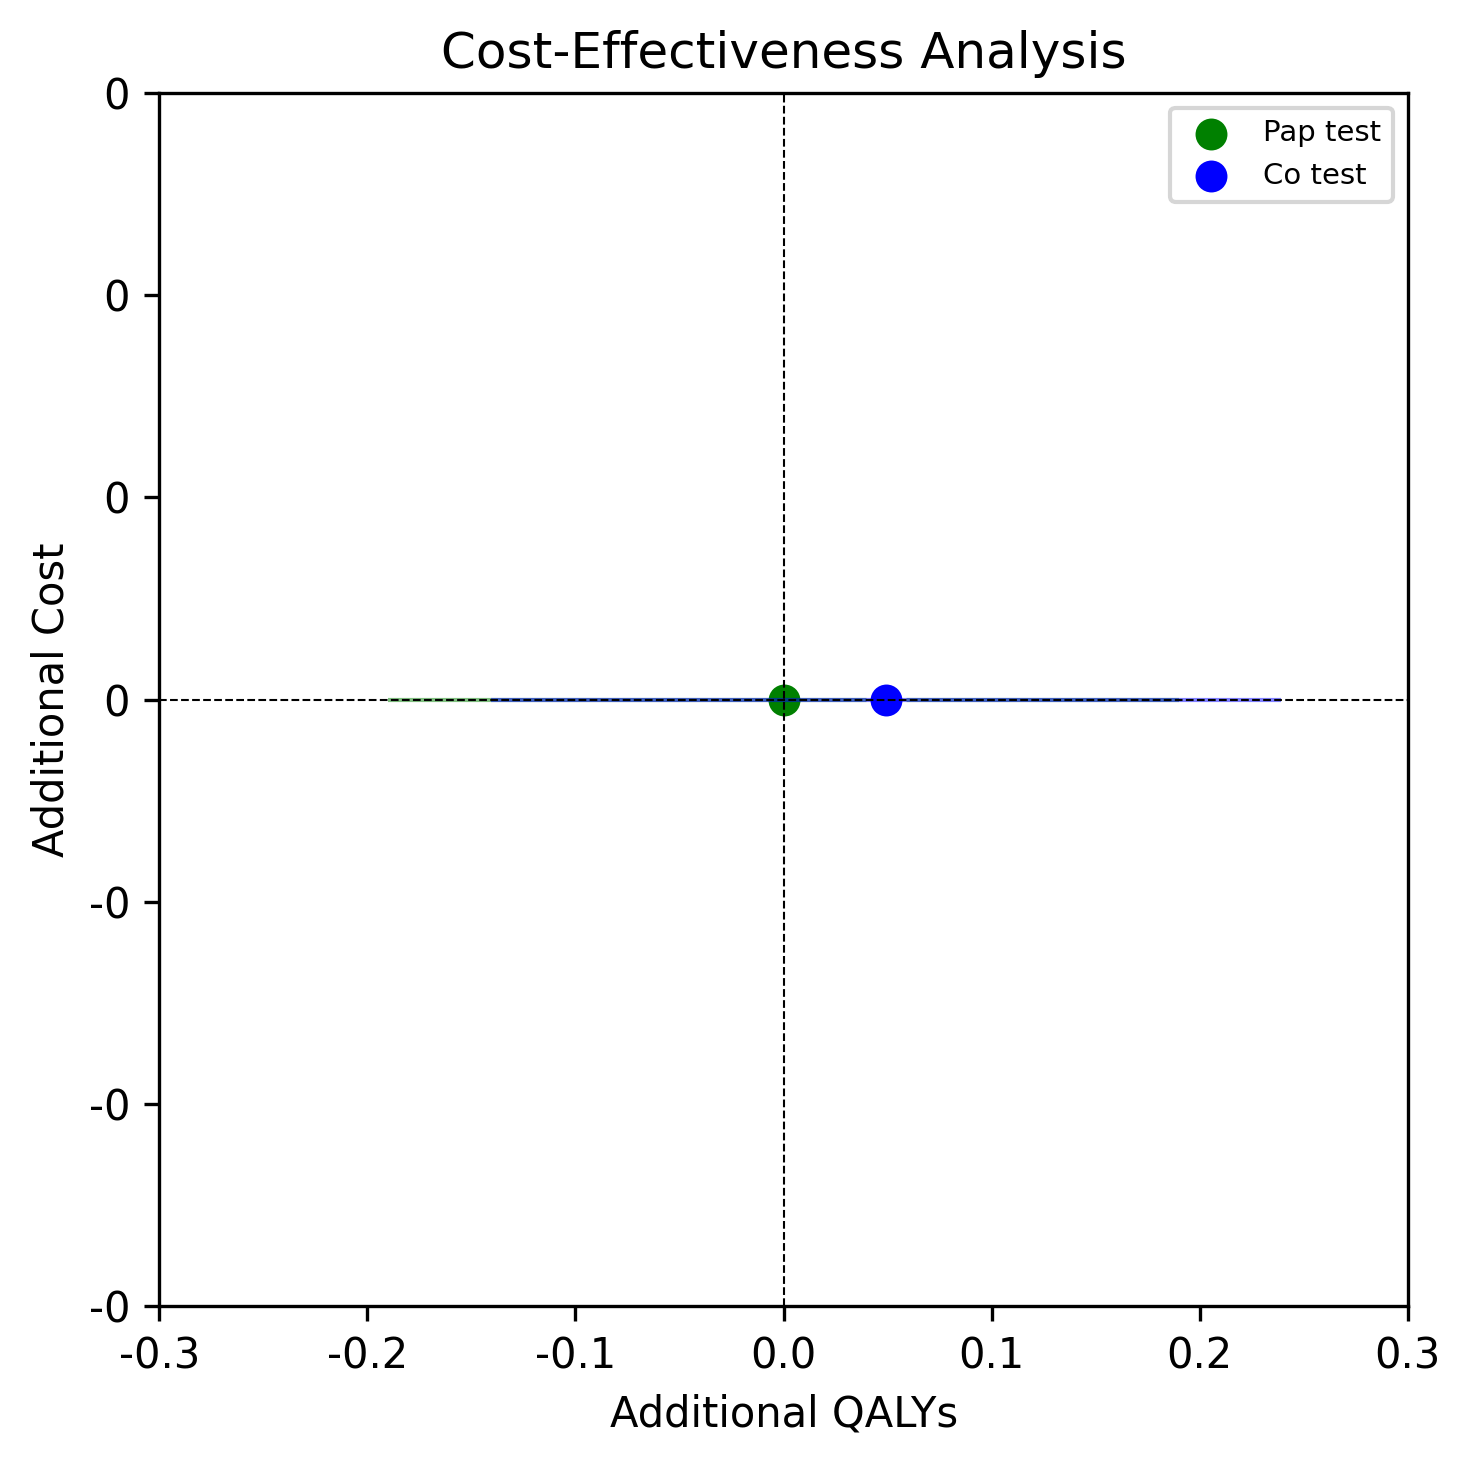
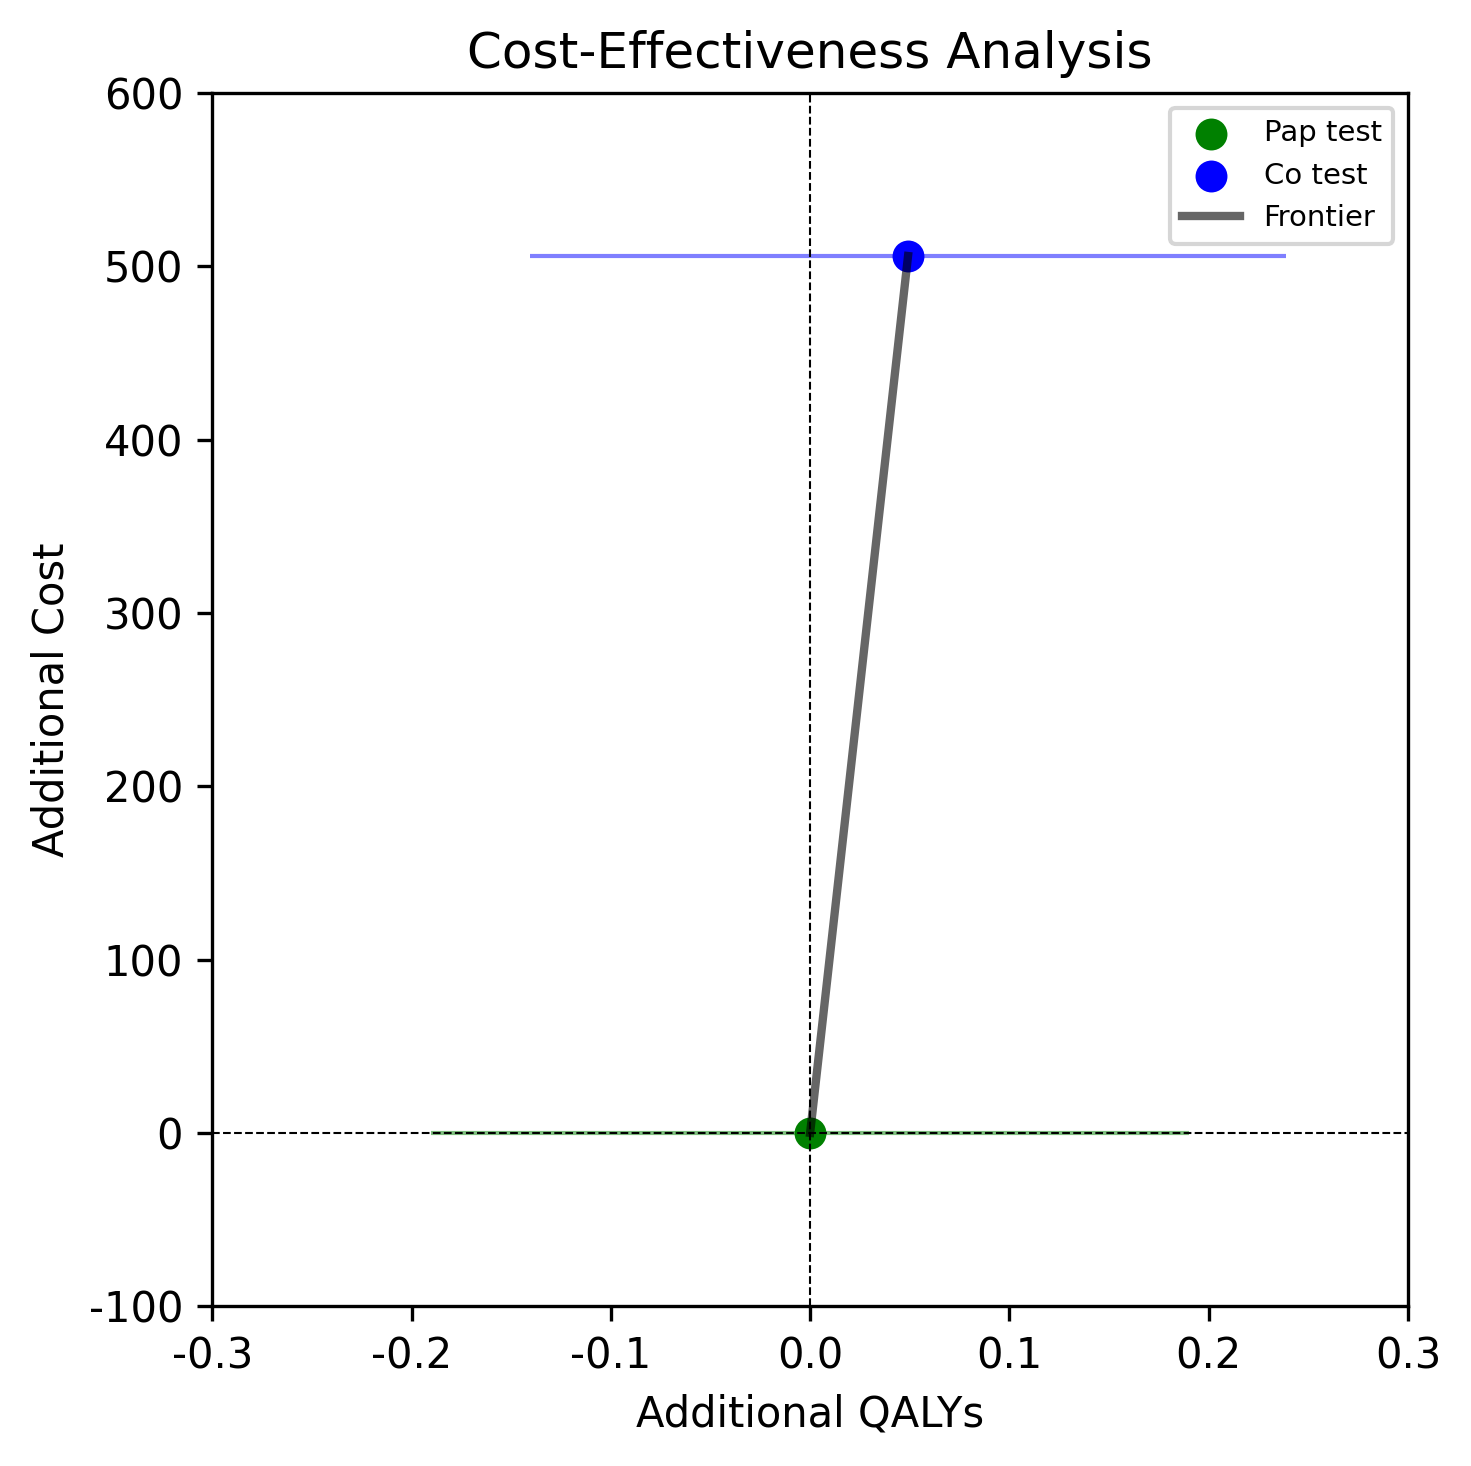
5

diff --git a/param_classes.py b/param_classes.py
@@ -17,20 +17,26 @@ class Parameters:
         # initial health state
         self.initialHealthState = data.HealthStates.WELL
 
-        # annual treatment cost
-        if self.test == Tests.PAP_TEST:
-            self.annualTestCost = data.PAP_TEST_COST/3
-        elif self.test == Tests.HPV_TEST:
-            self.annualTestCost = data.HPV_TEST_COST/5
-        elif self.test == Tests.CO_TEST:
-            self.annualTestCost = data.CO_TEST_COST/5
-
         # transition probability matrix of the selected test
         self.probMatrix = data.TRANS_MATRIX
 
         # annual state costs and utilities
         self.annualStateCosts = data.ANNUAL_STATE_COST
         self.annualStateUtilities = data.ANNUAL_STATE_UTILITY
+
+        # annual test cost
+        if self.test == Tests.PAP_TEST:
+            self.annualStateCosts[data.HealthStates.WELL.value] += data.PAP_TEST_COST / 3
+            self.annualStateCosts[data.HealthStates.CIN_1.value] += data.COLPOSCOPY_COST / 3
+            self.annualStateCosts[data.HealthStates.CIN_2plus.value] += data.COLPOSCOPY_COST / 3
+        elif self.test == Tests.HPV_TEST:
+            self.annualStateCosts[data.HealthStates.WELL.value] += data.HPV_TEST_COST / 5
+            self.annualStateCosts[data.HealthStates.CIN_1.value] += data.COLPOSCOPY_COST / 5
+            self.annualStateCosts[data.HealthStates.CIN_2plus.value] += data.COLPOSCOPY_COST / 5
+        elif self.test == Tests.CO_TEST:
+            self.annualStateCosts[data.HealthStates.WELL.value] += data.CO_TEST_COST / 5
+            self.annualStateCosts[data.HealthStates.CIN_1.value] += data.COLPOSCOPY_COST / 5
+            self.annualStateCosts[data.HealthStates.CIN_2plus.value] += data.COLPOSCOPY_COST / 5
 
         # discount rate
         self.discountRate = data.DISCOUNT
